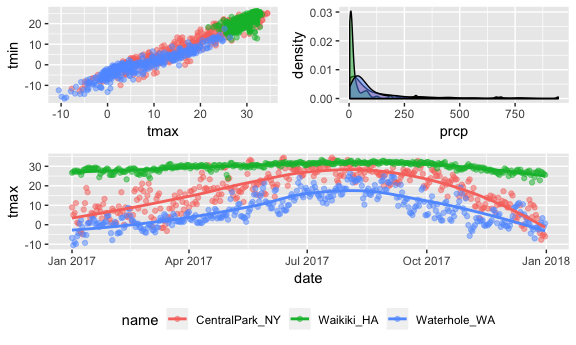
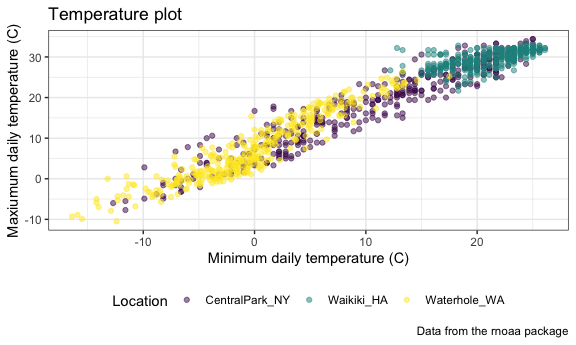
finished reviewing

diff --git a/vizualization_part_2.md b/vizualization_part_2.md
@@ -20,14 +20,14 @@ devtools::install_github("thomasp85/patchwork")
 library(tidyverse)
 ```
 
-    ## ── Attaching packages ───────────────────────────────────────────────────────────────────── tidyverse 1.2.1 ──
+    ## ── Attaching packages ──────────────────────────────────────────────────────── tidyverse 1.2.1 ──
 
     ## ✔ ggplot2 3.0.0     ✔ purrr   0.2.5
     ## ✔ tibble  1.4.2     ✔ dplyr   0.7.6
     ## ✔ tidyr   0.8.1     ✔ stringr 1.3.1
     ## ✔ readr   1.1.1     ✔ forcats 0.3.0
 
-    ## ── Conflicts ──────────────────────────────────────────────────────────────────────── tidyverse_conflicts() ──
+    ## ── Conflicts ─────────────────────────────────────────────────────────── tidyverse_conflicts() ──
     ## ✖ dplyr::filter() masks stats::filter()
     ## ✖ dplyr::lag()    masks stats::lag()
 
@@ -45,6 +45,8 @@ library(ggridges)
 ``` r
 library(patchwork)
 ```
+
+Data import.
 
 ``` r
 weather_df = 
@@ -108,7 +110,7 @@ ggplot(weather_df, aes(x = tmin, y = tmax)) +
 
 <img src="vizualization_part_2_files/figure-markdown_github/unnamed-chunk-5-1.png" width="90%" />
 
-Tick marks and labels
+Tick marks and labels... scale\_x\_continuous allows you to do many things to the aesthetics of the plot. Breaks allows you to add tick marks in certain places
 
 ``` r
 ggplot(weather_df, aes(x = tmin, y = tmax)) + 
@@ -130,6 +132,10 @@ ggplot(weather_df, aes(x = tmin, y = tmax)) +
 trans = allows you to transform your values
 
 ``` r
+## limits allows you to put a limit on your plot. Think of like a range. 
+## You can also add the scale_y_continuos to the y 
+## position = "right" allows you to move the tick marks to the right. 
+## trans = "sqrt" allows you to transformt the data 
 ggplot(weather_df, aes(x = tmin, y = tmax)) + 
   geom_point(aes(color = name), alpha = .5) + 
   labs(
@@ -156,7 +162,7 @@ ggplot(weather_df, aes(x = tmin, y = tmax)) +
 Colors and Themes
 -----------------
 
-scale\_color\_discrete is the same as scale\_color\_hue name = "location" allows you to change the name of the title of the legend key
+Adjsut color... scale\_color\_discrete is the same as scale\_color\_hue name = "location" allows you to change the name of the title of the legend key h = is the hue l = luminosit
 
 ``` r
 ggplot(weather_df, aes(x = tmin, y = tmax)) + 
@@ -168,14 +174,15 @@ ggplot(weather_df, aes(x = tmin, y = tmax)) +
     caption = "Data from the rnoaa package"
   ) + 
   scale_color_hue(name = "Location", 
-                  h = c(100, 300))
+                  h = c(100, 350), 
+                  l = 75)
 ```
 
     ## Warning: Removed 15 rows containing missing values (geom_point).
 
 <img src="vizualization_part_2_files/figure-markdown_github/unnamed-chunk-8-1.png" width="90%" />
 
-Viridis by default, viridus will do a continous variable
+Viridis by default, viridus will do a continous variable, so need to tell it is discrete
 
 ``` r
 ggplot(weather_df, aes(x = tmin, y = tmax)) + 
@@ -215,6 +222,9 @@ ggplot(weather_df, aes(x = tmin, y = tmax)) +
 
 <img src="vizualization_part_2_files/figure-markdown_github/unnamed-chunk-10-1.png" width="90%" />
 
+Theme
+-----
+
 ``` r
 ggplot(weather_df, aes(x = tmin, y = tmax)) + 
   geom_point(aes(color = name), alpha = .5) + 
@@ -237,6 +247,7 @@ ggplot(weather_df, aes(x = tmin, y = tmax)) +
 <img src="vizualization_part_2_files/figure-markdown_github/unnamed-chunk-11-1.png" width="90%" />
 
 ``` r
+## Add the legend to the bottom, where you add the theme - "bottom" matters. 
 ggplot(weather_df, aes(x = tmin, y = tmax)) + 
   geom_point(aes(color = name), alpha = .5) + 
   labs(
@@ -330,10 +341,33 @@ ggplot(waikiki, aes(x = date, y = tmax, color = name)) +
 
 <img src="vizualization_part_2_files/figure-markdown_github/unnamed-chunk-15-1.png" width="90%" />
 
+``` r
+## You can also do the same thing by inserting facet_grid 
+ggplot(weather_df, aes(x = tmin, y = tmax)) + 
+  geom_point(aes(color = name), alpha = .5) + 
+  labs(
+    title = "Temperature plot",
+    x = "Minimum daily temperature (C)",
+    y = "Maxiumum daily temperature (C)",
+    caption = "Data from the rnoaa package"
+  ) + 
+  viridis::scale_color_viridis(
+    name = "Location", 
+    discrete = TRUE
+  ) + 
+  theme_bw() + 
+  theme(legend.position = "bottom")
+```
+
+    ## Warning: Removed 15 rows containing missing values (geom_point).
+
+<img src="vizualization_part_2_files/figure-markdown_github/unnamed-chunk-16-1.png" width="90%" />
+
 Patchwork
 ---------
 
 ``` r
+library(patchwork)
 tmax_tmin_p = ggplot(weather_df, aes(x = tmax, y = tmin, color = name)) + 
   geom_point(alpha = .5) +
   theme(legend.position = "none")
@@ -349,6 +383,7 @@ tmax_date_p = ggplot(weather_df, aes(x = date, y = tmax, color = name)) +
   geom_smooth(se = FALSE) + 
   theme(legend.position = "bottom")
 
+## Doing this will combine all of yourplots that are fundamentally different
 (tmax_tmin_p + prcp_dens_p) / tmax_date_p
 ```
 
@@ -360,4 +395,86 @@ tmax_date_p = ggplot(weather_df, aes(x = date, y = tmax, color = name)) +
 
     ## Warning: Removed 3 rows containing missing values (geom_point).
 
-<img src="vizualization_part_2_files/figure-markdown_github/unnamed-chunk-16-1.png" width="90%" />
+<img src="vizualization_part_2_files/figure-markdown_github/unnamed-chunk-17-1.png" width="90%" />
+
+``` r
+ggplot(weather_df, aes(x = tmin, y = tmax)) + 
+  geom_point(aes(color = name), alpha = .5) + 
+  facet_grid(~name) + 
+  labs(
+    title = "Temperature plot",
+    x = "Minimum daily temperature (C)",
+    y = "Maxiumum daily temperature (C)",
+    caption = "Data from the rnoaa package"
+  ) + 
+  viridis::scale_color_viridis(
+    name = "Location", 
+    discrete = TRUE
+  ) + 
+  theme_bw() + 
+  theme(legend.position = "bottom")
+```
+
+    ## Warning: Removed 15 rows containing missing values (geom_point).
+
+<img src="vizualization_part_2_files/figure-markdown_github/unnamed-chunk-18-1.png" width="90%" />
+
+Data Manipulation
+-----------------
+
+``` r
+ggplot(weather_df, aes(x = name, y = tmax, fill = name)) + 
+  geom_violin()
+```
+
+    ## Warning: Removed 3 rows containing non-finite values (stat_ydensity).
+
+<img src="vizualization_part_2_files/figure-markdown_github/unnamed-chunk-19-1.png" width="90%" />
+
+``` r
+## It now puts it a new order of my chosing; allows you to rearrange the graphs in the order you like 
+weather_df %>%
+  mutate(name = forcats::fct_relevel(name, c("Waikiki_HA", "CentralPark_NY", "Waterhole_WA"))) %>% 
+  ggplot(aes(x = name, y = tmax)) + 
+  geom_violin(aes(fill = name), color = "blue", alpha = .5) + 
+  theme(legend.position = "bottom")
+```
+
+    ## Warning: Removed 3 rows containing non-finite values (stat_ydensity).
+
+<img src="vizualization_part_2_files/figure-markdown_github/unnamed-chunk-20-1.png" width="90%" />
+
+``` r
+## forcats::fct_reorder allows you rearrange according to a new factor of your choosing
+weather_df %>%
+  mutate(name = forcats::fct_reorder(name, tmax)) %>% 
+  ggplot(aes(x = name, y = tmax)) + 
+  geom_violin(aes(fill = name), color = "blue", alpha = .5) + 
+  theme(legend.position = "bottom")
+```
+
+    ## Warning: Removed 3 rows containing non-finite values (stat_ydensity).
+
+<img src="vizualization_part_2_files/figure-markdown_github/unnamed-chunk-21-1.png" width="90%" />
+
+Advanced tidying...
+
+``` r
+## Data manipulation vs. Data tidying at the same time 
+weather_df %>%
+  select(name, tmax, tmin) %>% 
+  gather(key = observation, value = temp, tmax:tmin) %>% 
+  ggplot(aes(x = temp, fill = observation)) +
+  geom_density(alpha = .5) + 
+  facet_grid(~name) + 
+  viridis::scale_fill_viridis(discrete = TRUE)
+```
+
+    ## Warning: Removed 18 rows containing non-finite values (stat_density).
+
+<img src="vizualization_part_2_files/figure-markdown_github/unnamed-chunk-22-1.png" width="90%" />
+
+can't load becayse I don't have the data set in the data folder...
+------------------------------------------------------------------
+
+pulse\_data = haven::read\_sas("./data/public\_pulse\_data.sas7bdat") %&gt;% janitor::clean\_names() %&gt;% gather(key = visit, value = bdi, bdi\_score\_bl:bdi\_score\_12m) %&gt;% separate(visit, into = c("remove\_1", "remove\_2", "visit"), sep = "\_") %&gt;% select(id, visit, everything(), -starts\_with("remove")) %&gt;% mutate(visit = replace(visit, visit == "bl", "00m"), visit = factor(visit, levels = str\_c(c("00", "01", "06", "12"), "m"))) %&gt;% arrange(id, visit)
